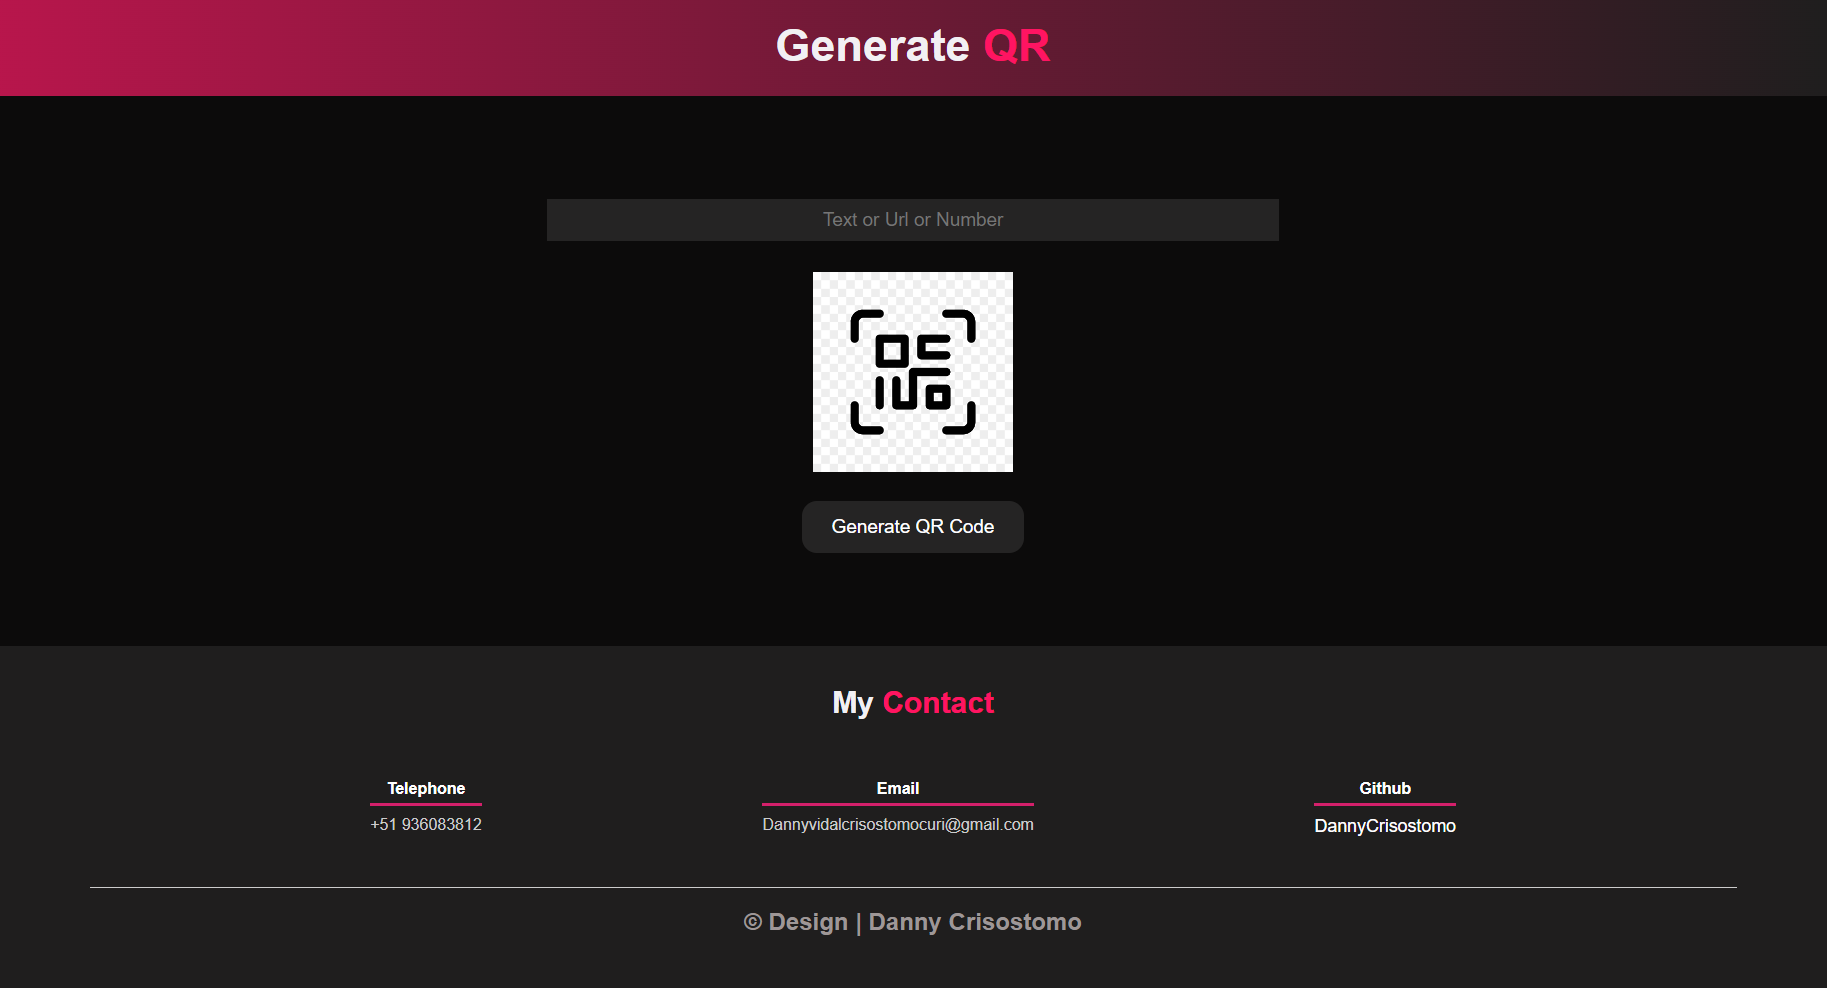
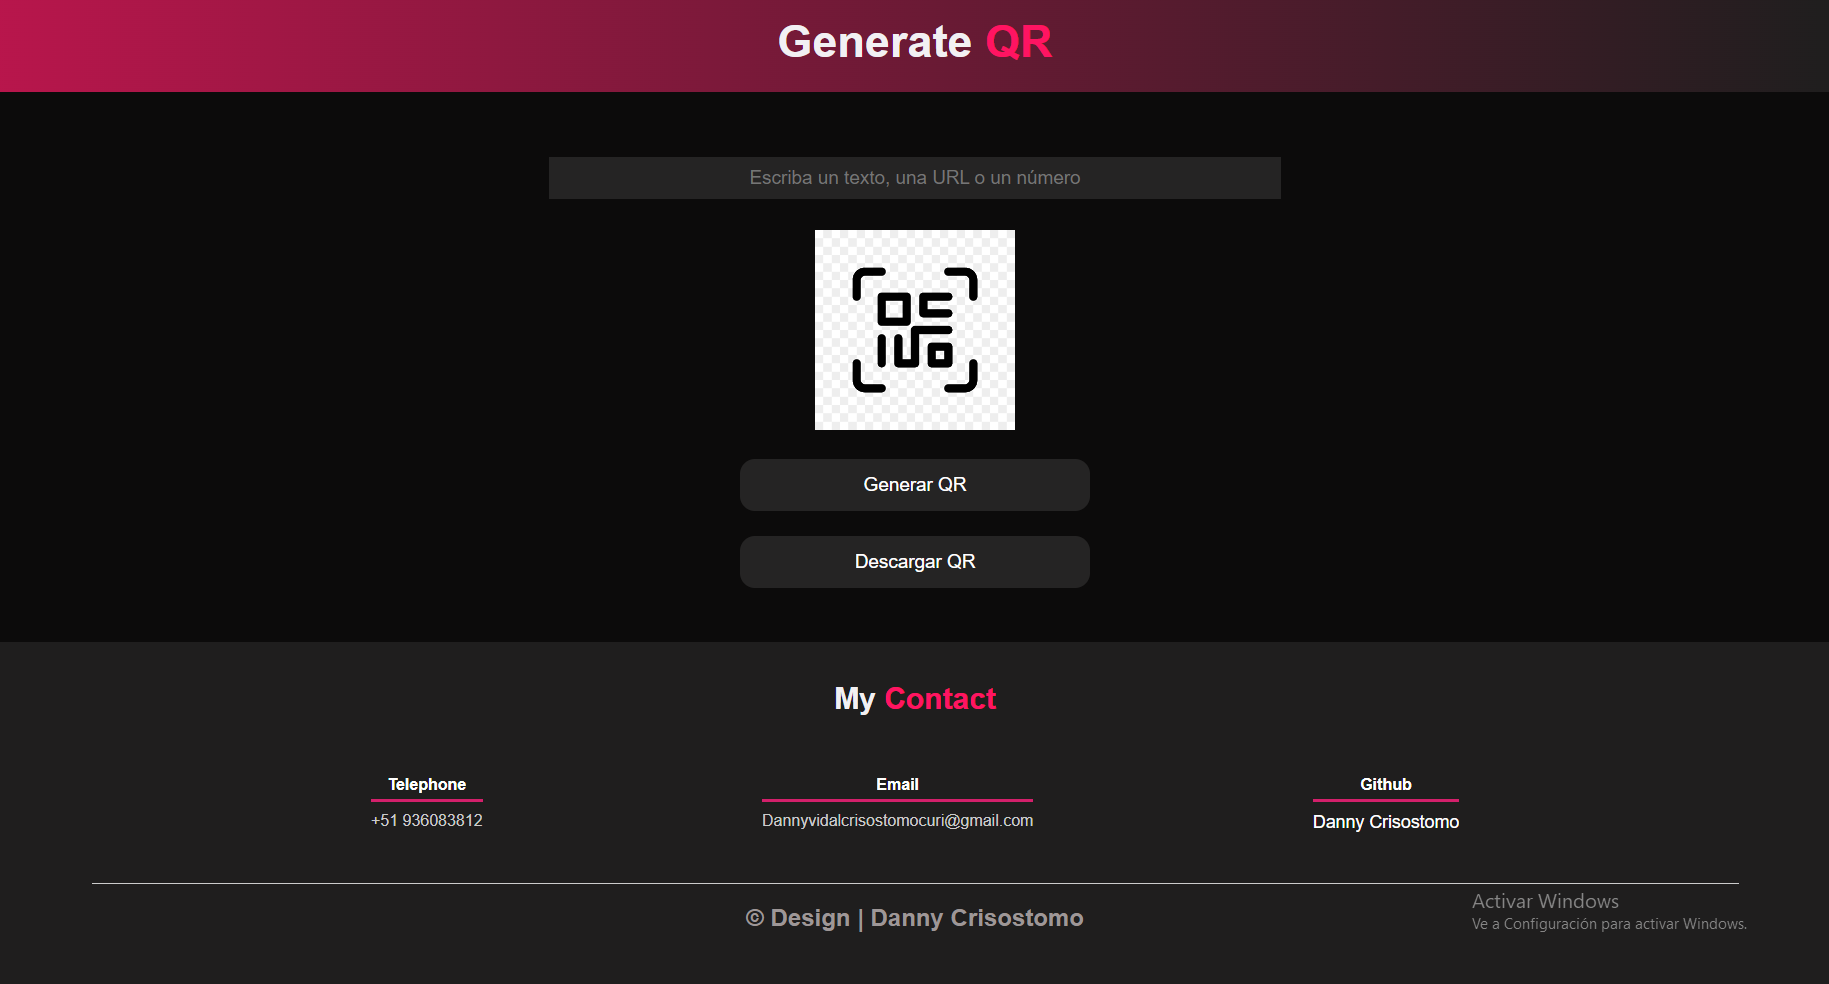
Add files via upload

diff --git a/JS/main.js b/JS/main.js
@@ -1,16 +1,37 @@
-let qrText=document.getElementById('QrText')
-let imgBox=document.getElementById('ImgBox');
-let qrImage=document.getElementById('QrImage');
+let qrTexto = document.getElementById('QrText');
+let imgBox = document.getElementById('ImgBox');
+let qrImagen = document.getElementById('QrImage');
 
 function GenerateQR() {
-    if (qrText.value.length>0) {
-        qrImage.src="https://api.qrserver.com/v1/create-qr-code/?size=150x150&data="+qrText.value;
+    if (qrTexto.value.length > 0) {
+        qrImagen.src = "https://api.qrserver.com/v1/create-qr-code/?size=150x150&data=" + qrTexto.value;
         imgBox.classList.add('show-img');
+    } else {
+        qrTexto.classList.add('ERROR');
+        setTimeout(() => {
+            qrTexto.classList.remove('ERROR');
+        }, 1000);
     }
-    else{
-        qrText.classList.add('ERROR');
-        setTimeout(()=>{
-            qrText.classList.remove('ERROR');
-        },1000)
+}
+
+function DescargarQR() {
+    if (qrTexto.value.length > 0) {
+        let solicitudHTTP = new XMLHttpRequest();
+        solicitudHTTP.responseType = 'blob';
+
+        solicitudHTTP.onload = function () {
+            let objetoBinarioGrande = new Blob([solicitudHTTP.response], { type: 'image/png' });
+
+            // Crear un enlace temporal
+            let link = document.createElement('a');
+            link.href = window.URL.createObjectURL(objetoBinarioGrande);
+            link.download = 'qrcode.png';
+
+            // Simular un clic en el enlace para iniciar la descarga
+            link.click();
+        };
+
+        solicitudHTTP.open('GET', "https://api.qrserver.com/v1/create-qr-code/?size=150x150&data=" + qrTexto.value, true);
+        solicitudHTTP.send();
     }
 }

diff --git a/index.html b/index.html
@@ -7,7 +7,7 @@
     <link rel="stylesheet" href="css/style.css">
     <link rel="icon" href="./IMG/qr.png" sizes="32x32" />
 
-    <title>Generador QR</title>
+    <title>QR Code</title>
 </head>
 <body>
     <div class="title">
@@ -15,11 +15,12 @@
     </div>
 
     <div class="container">
-            <input type="text" placeholder="Text or Url or Number" id="QrText">
+            <input type="text" placeholder="Escriba un texto, una URL o un número" id="QrText">
         <div class="ImgBox">
             <img src="img/qr.png" alt="QR Code" id="QrImage">
         </div>
-        <button onclick="GenerateQR()">Generate QR Code</button>
+        <button onclick="GenerateQR()">Generar QR</button>
+        <button onclick="DescargarQR()">Descargar QR</button>
     </div>
 
     <footer>
@@ -35,7 +36,7 @@
             </div>
             <div class="content-foo">
                 <h4>Github</h4>
-                <p><a href="https://github.com/DannyCrisostomo">DannyCrisostomo</a></p>
+                <p><a href="https://github.com/DannyCrisostomo">Danny Crisostomo</a></p>
             </div>
         </div>
         <h2 class="titulo-final">&copy; Design | Danny Crisostomo</h2>

diff --git a/CSS/style.css b/CSS/style.css
@@ -75,10 +75,11 @@ span {
     width: 200px;
     height: 200px;
 }
-button{
+button {
+    width: 350px;
     position: relative;
     display: inline-block;
-    padding: 15px 30px;
+    padding: 15px 50px;
     background-color: rgb(37, 36, 36);
     color: #fff;
     font-weight: 400;
@@ -172,6 +173,9 @@ footer{
         font-size: 20px;
     }
     .container input {
+        width: 90%;
+    }
+    button {
         width: 90%;
     }
 }
